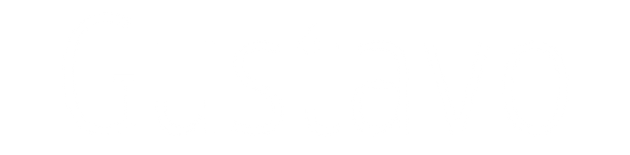
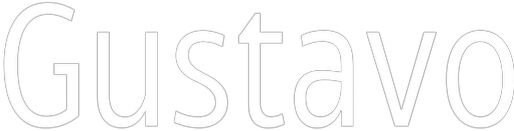
Layout fixed -- Homepage text added

diff --git a/frontend/src/components/Home/index.js b/frontend/src/components/Home/index.js
@@ -1,0 +1,22 @@
+import { Link } from 'react-router-dom';
+import LogoG from '../../assets/images/LogoG.png';
+import './index.scss';
+
+const Home = () => {
+    return (
+        <div className="container home-page">
+            <div className="text-zone">
+                <h1>Hi, <br /> I'm  
+                <img src={LogoG} alt="developer" />
+                ustavo
+                <br />
+                Web Developer
+                </h1>
+                <h2>Frontend Developer / Photographer</h2>
+                <Link to='/contact' className='flat-button'>CONTACT ME</Link>
+            </div>
+        </div>
+    );
+}
+
+export default Home;

diff --git a/frontend/src/components/Layout/index.js b/frontend/src/components/Layout/index.js
@@ -1,12 +1,17 @@
 import './index.scss';
 import Sidebar from '../Sidebar';
+import { Outlet } from 'react-router-dom';
 
-const Home = () => {
+const Layout = () => {
     return (
-    <>
-        <Sidebar />
-    </>
-    )
+        <div className='App'>
+            <Sidebar />
+            <div className='page'>
+                <span className='tags '></span>
+                <Outlet />
+            </div>
+        </div>
+    );
 }
 
-export default Home;
+export default Layout;

diff --git a/frontend/src/App.js b/frontend/src/App.js
@@ -1,12 +1,17 @@
 import './App.scss';
 import { Route, Routes } from 'react-router-dom';
 import Layout from './components/Layout';
+import Home from './components/Home';
 
 function App() {
   return (
-    <Routes>
-      <Route path="/" element={<Layout />} />
-    </Routes>
+    <>
+      <Routes>
+        <Route path="/" element={<Layout />}>
+          <Route index element={<Home />} />
+        </Route>
+      </Routes>
+    </>
   );
 }
 

diff --git a/frontend/src/components/Sidebar/index.js b/frontend/src/components/Sidebar/index.js
@@ -17,7 +17,7 @@ const Sidebar = () => (
                 <FontAwesomeIcon icon={faHome} color="#4d4d4e" />
             </NavLink>
 
-            <NavLink exact="true" activeclassname="active" className="photography-link" to="/photography">
+            <NavLink exact="true" activeclassname="active" className="photos-link" to="/photos">
                 <FontAwesomeIcon icon={faCamera} color="#4d4d4e" />
             </NavLink>
             

diff --git a/frontend/src/components/Home/index.scss b/frontend/src/components/Home/index.scss
@@ -1,0 +1,19 @@
+.home-page {
+
+    .text-zone {
+        position: absolute;
+        left: 10%;
+        top: 50%;
+        transform: translateY(-50%);
+        width: 40%;
+        max-height: 90%;
+    }
+
+    h1 {
+        color: #fff;
+        font-size: 53px;
+        img {
+            width: 32px;
+        }
+    }
+}

diff --git a/frontend/src/components/Layout/index.scss b/frontend/src/components/Layout/index.scss
@@ -1,0 +1,14 @@
+.container {
+    width: 100%;
+    will-change: contents;
+    height: 90%;
+    min-height: 566px;
+    position: absolute;
+    opacity: 0;
+    top: 5%;
+    margin: 0 auto;
+    z-index: 1;
+    transform-style: preserve-3d;
+    animation: fadeIn 1s forwards;
+    animation-delay: 1s;
+}

diff --git a/frontend/src/index.css b/frontend/src/index.css
@@ -6,7 +6,7 @@ body {
   margin: 0;
   font: 300 11px/1.4 "Helvetica Neue", sans-serif;
   color: #444;
-  background: #007f6c;
+  background: #00775c;
   overflow: hidden;
   display: block;
   -webkit-font-smoothing: antialiased;

diff --git a/frontend/src/components/Sidebar/index.scss b/frontend/src/components/Sidebar/index.scss
@@ -77,9 +77,9 @@
             }
         }
 
-        a.photography-link {
+        a.photos-link {
             &:after {
-                content: 'PORTFOLIO';
+                content: 'PHOTOS';
             }
         }
 
